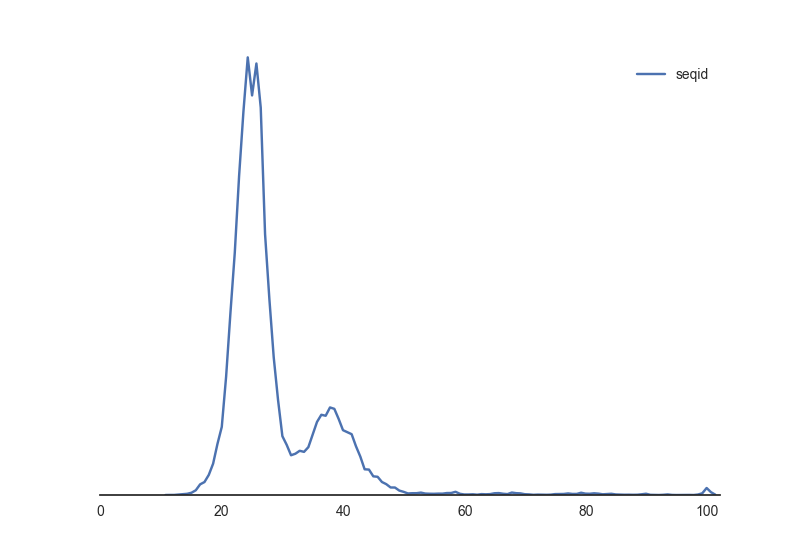
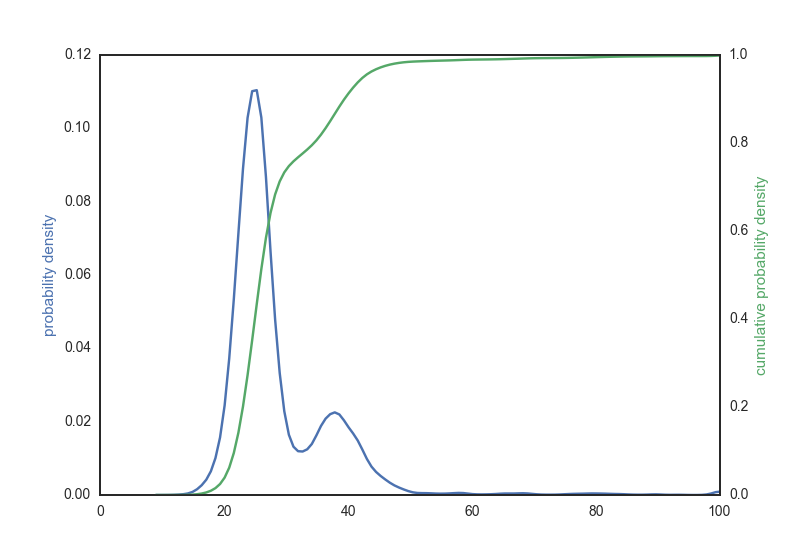
Changes to sequence identity distribution figure

diff --git a/figures/rmsddist/rmsddist.py b/figures/rmsddist/rmsddist.py
@@ -60,9 +60,19 @@ plt.close()
 
 # Plot sequence identity distribution
 
+fig, ax1 = plt.subplots()
+
+palette = sns.color_palette('deep', 2)
+
 sns.set(style="white")
-sns.kdeplot(df_has_model.seqid)
-sns.despine(left=True)
-plt.setp(plt.gca(), yticks=[])
-plt.xlim(0,102)
+sns.kdeplot(df_has_model.seqid, bw=1., ax=ax1, color=palette[0])
+ax1.set_ylabel('probability density', color=palette[0])
+ax1.legend_.remove()
+ax2 = ax1.twinx()
+sns.kdeplot(df_has_model.seqid, bw=1., cumulative=True, ax=ax2, color=palette[1])
+ax2.set_ylabel('cumulative probability density', color=palette[1])
+ax2.legend_.remove()
+# sns.despine(left=True)
+# plt.setp(plt.gca(), yticks=[])
+plt.xlim(0,100)
 plt.savefig('seqid_dist.png')
